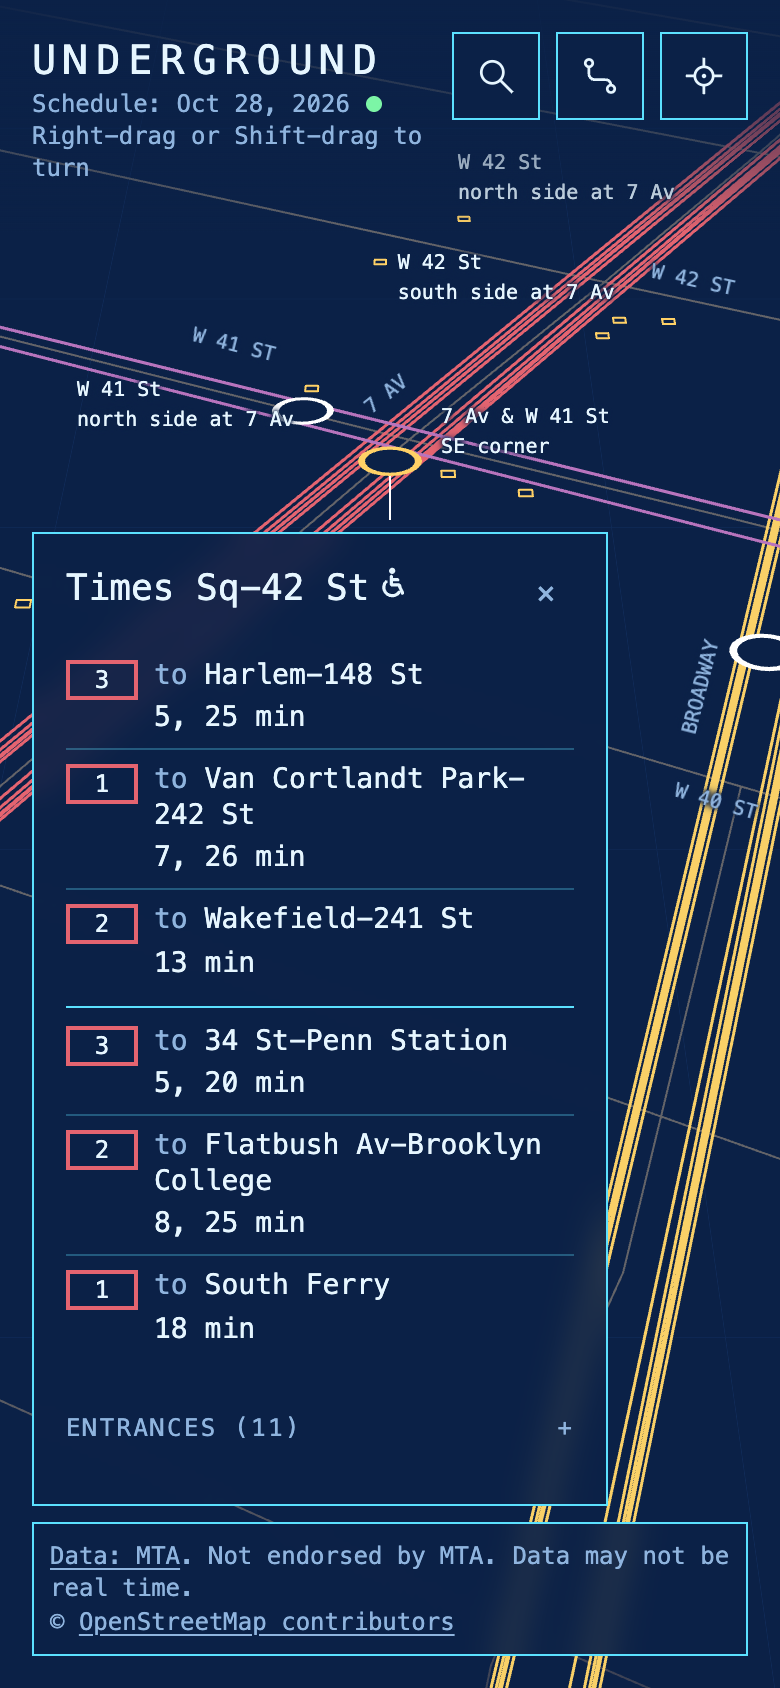
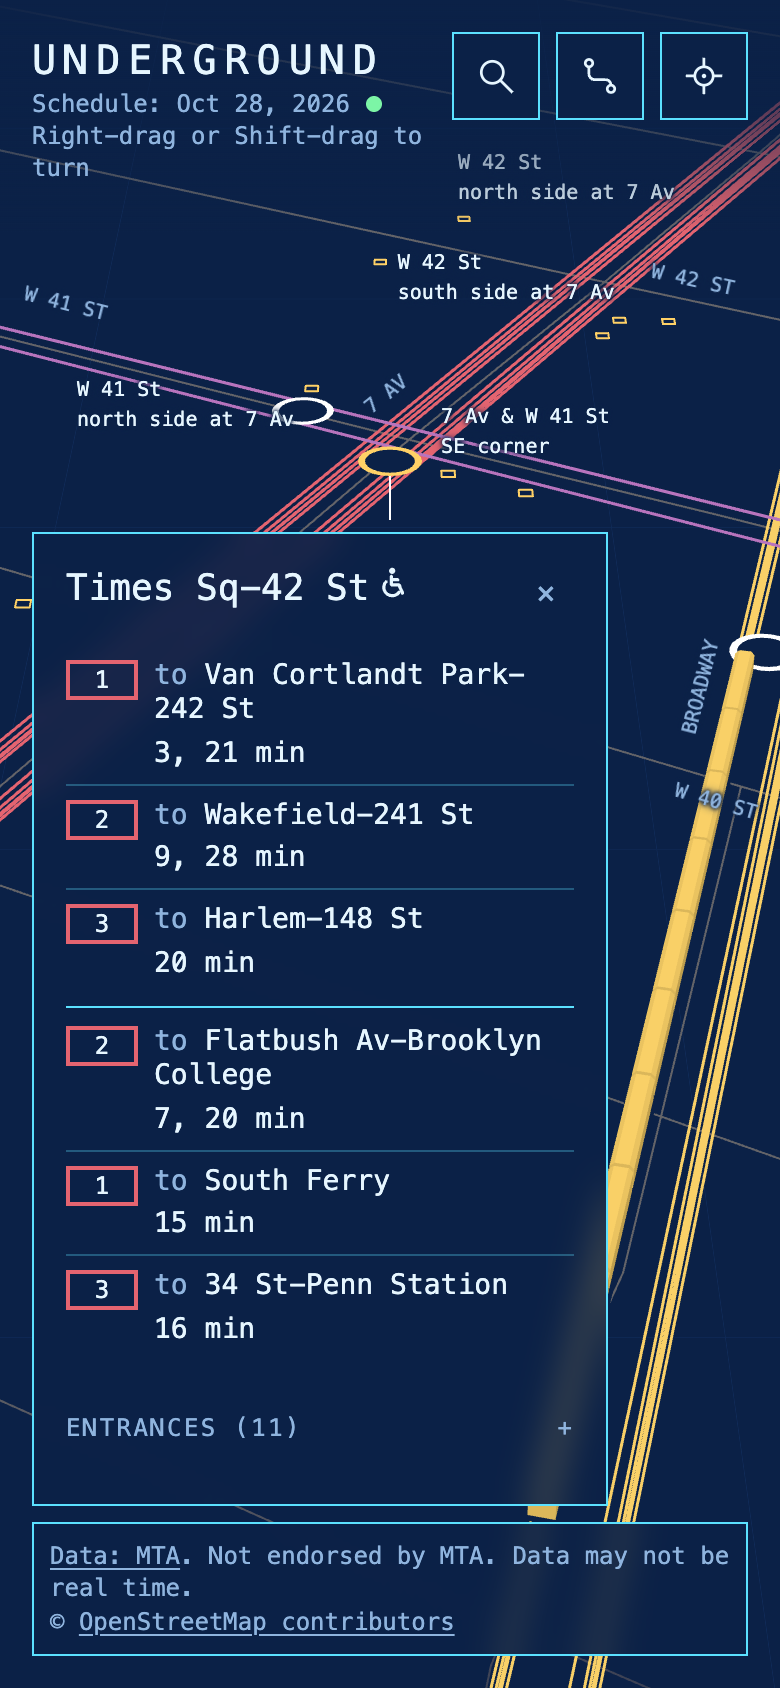
Entrance list: wrap long parts, keep street numbers whole, one phone rule (ost.8 review)

diff --git a/src/lib/entranceList.ts b/src/lib/entranceList.ts
@@ -3,11 +3,14 @@
 import type { EntranceText } from './entranceText'
 import { partsSeparator } from './streetName'
 
-/** One visible piece of a row (it never breaks across lines) and what goes before it. */
+/** One visible piece of a row and what goes before it. */
 export interface RowPart {
   /** '' for the first piece; " · " (its dot kept with the piece before it) or a space for a relation ("at W 95 St"). */
   sep: string
+  /** The piece, a street number kept with its direction letter and type word ("W 116 St" never splits). */
   text: string
+  /** Short enough (with its dot) to stay on one line whole: the view keeps it unbroken. A longer piece wraps between words. */
+  keep: boolean
 }
 
 /** One row of the list. */
@@ -27,15 +30,29 @@ const byName = (a: string, b: string) => a.localeCompare(b, 'en', { numeric: tru
 /** A no-break space keeps the dot with the piece before it, so a line starts with a piece, never with a dot. */
 const NBSP = String.fromCharCode(0xa0)
 const DOT = `${NBSP}· `
+/** A piece, with the dot that follows it, up to this many characters is kept whole (the panel's text is about 30 wide). */
+export const NOWRAP_MAX = 24
+const TYPE_WORD = /(\d) (Av|St|Pl|Blvd|Rd|Pkwy|Sq|Ln|Dr|Ct|Ter|Hwy|Expy|Ext)\b/g
+const DIRECTION = /\b([NSEW]) (?=\d)/g
+
+/** A street number stays with the direction letter before it and the type word after it. */
+export function glueStreetNumbers(text: string): string {
+  return text.replace(TYPE_WORD, `$1${NBSP}$2`).replace(DIRECTION, `$1${NBSP}`)
+}
 
 /** The label's pieces: its head, then its tail split at the " · " the label puts between parts. */
 export function rowParts(head: string, tail: string): RowPart[] {
-  const parts: RowPart[] = [{ sep: '', text: head }]
-  if (tail === '') return parts
-  const [first, ...rest] = tail.split(' · ')
-  parts.push({ sep: partsSeparator(tail) === ' ' ? ' ' : DOT, text: first! })
-  for (const text of rest) parts.push({ sep: DOT, text })
-  return parts
+  const raw: { sep: string; text: string }[] = [{ sep: '', text: head }]
+  if (tail !== '') {
+    const [first, ...rest] = tail.split(' · ')
+    raw.push({ sep: partsSeparator(tail) === ' ' ? ' ' : DOT, text: first! })
+    for (const text of rest) raw.push({ sep: DOT, text })
+  }
+  return raw.map((p, i) => {
+    // The dot of the next piece stays with this one, so it counts toward what cannot break.
+    const dot = raw[i + 1]?.sep === DOT ? 2 : 0
+    return { sep: p.sep, text: glueStreetNumbers(p.text), keep: p.text.length + dot <= NOWRAP_MAX }
+  })
 }
 
 /** What a screen reader says after a row's wording: ", 2 entrances" for a merged row, '' for one. */

diff --git a/src/lib/entranceList.test.ts b/src/lib/entranceList.test.ts
@@ -1,6 +1,6 @@
 import { describe, expect, it } from 'vitest'
 import type { EntranceText } from './entranceText'
-import { entranceCountSpoken, entranceRows, entranceTotal, rowParts } from './entranceList'
+import { entranceCountSpoken, entranceRows, entranceTotal, glueStreetNumbers, NOWRAP_MAX, rowParts } from './entranceList'
 
 function text(index: number, head: string, tail: string, o: Partial<EntranceText> = {}): EntranceText {
   return {
@@ -52,15 +52,31 @@ describe('entranceRows', () => {
 describe('rowParts', () => {
   it('splits at the label’s separators and keeps a relation on the street part’s line', () => {
     expect(rowParts('Bedford Av & N 7 St', 'NE corner · elevator').map((p) => [p.sep, p.text])).toEqual([
-      ['', 'Bedford Av & N 7 St'],
-      ['\u00a0· ', 'NE corner'],
-      ['\u00a0· ', 'elevator'],
+      ['', 'Bedford Av & N 7 St'],
+      [' · ', 'NE corner'],
+      [' · ', 'elevator'],
     ])
     expect(rowParts('Broadway median', 'at W 95 St').map((p) => [p.sep, p.text])).toEqual([
       ['', 'Broadway median'],
-      [' ', 'at W 95 St'],
+      [' ', 'at W 95 St'],
     ])
-    expect(rowParts('Broadway', '')).toEqual([{ sep: '', text: 'Broadway' }])
+    expect(rowParts('Broadway', '')).toEqual([{ sep: '', text: 'Broadway', keep: true }])
+  })
+
+  it('keeps a street number with its direction and type word', () => {
+    expect(glueStreetNumbers('W 116 St & 7 Av')).toBe('W 116 St & 7 Av')
+    expect(glueStreetNumbers('Broadway median')).toBe('Broadway median')
+  })
+
+  it('keeps a part whole with its dot only up to NOWRAP_MAX; a longer one may wrap between words', () => {
+    const tail = `${'x'.repeat(NOWRAP_MAX - 2)} · ${'y'.repeat(NOWRAP_MAX - 1)}`
+    const [a, b, c] = rowParts('Prospect Park W & 9 St', tail)
+    expect([a!.keep, b!.keep, c!.keep]).toEqual([true, true, true])
+    const long = rowParts('Prospect Park Southwest & Bartel Pritchard Sq', 'NE corner')
+    expect(long[0]!.keep).toBe(false)
+    expect(long[0]!.text).toContain(' ')
+    expect(long[1]!.keep).toBe(true)
+    expect(rowParts('Short', 'z'.repeat(NOWRAP_MAX - 1) + ' · b')[1]!.keep).toBe(false)
   })
 
   it('reads back as the label’s own text', () => {

diff --git a/src/ui/useListScroll.ts b/src/ui/useListScroll.ts
@@ -1,12 +1,11 @@
 import { useCallback, useLayoutEffect, useRef, useState, type RefObject } from 'react'
+import { isPhoneViewport } from '../lib/streetLabelReveal'
 
 /** Most rows the list shows at once on a phone, and the most of the screen it may take (a share of the height). */
 const MAX_ROWS = 5
 const MAX_SHARE = 0.25
 /** Never cap below the three collapsed rows. */
 const MIN_ROWS = 3
-/** Tailwind's `sm` breakpoint is 640 px; below it the panel sits over the map and must leave the train in view. */
-const NARROW = '(max-width: 639px)'
 
 export interface ListScroll<L extends HTMLElement = HTMLOListElement> {
   scroller: RefObject<HTMLDivElement | null>
@@ -43,7 +42,7 @@ export function useListScroll<L extends HTMLElement = HTMLOListElement>(rowCount
     if (!ol) return
     const rows = [...ol.children]
     let cap: number | null = null
-    if (window.matchMedia(NARROW).matches && rows.length > MIN_ROWS) {
+    if (isPhoneViewport({ width: window.innerWidth, height: window.innerHeight }) && rows.length > MIN_ROWS) {
       const top = ol.getBoundingClientRect().top
       const limit = window.innerHeight * MAX_SHARE
       let fit = MIN_ROWS

diff --git a/src/ui/EntranceList.tsx b/src/ui/EntranceList.tsx
@@ -19,10 +19,15 @@ function Row({ row }: RowProps) {
         {row.parts.map((part, i) => (
           <span key={i}>
             {part.sep}
-            <span className="whitespace-nowrap">{part.text}</span>
+            <span className={part.keep ? 'whitespace-nowrap' : undefined}>{part.text}</span>
           </span>
         ))}
-        {row.count > 1 && <span className="whitespace-nowrap text-ink-dim"> ({row.count})</span>}
+        {row.count > 1 && (
+          <>
+            {' '}
+            <span className="whitespace-nowrap text-ink-dim">({row.count})</span>
+          </>
+        )}
       </span>
       <span className="sr-only">{row.spoken}</span>
     </li>
